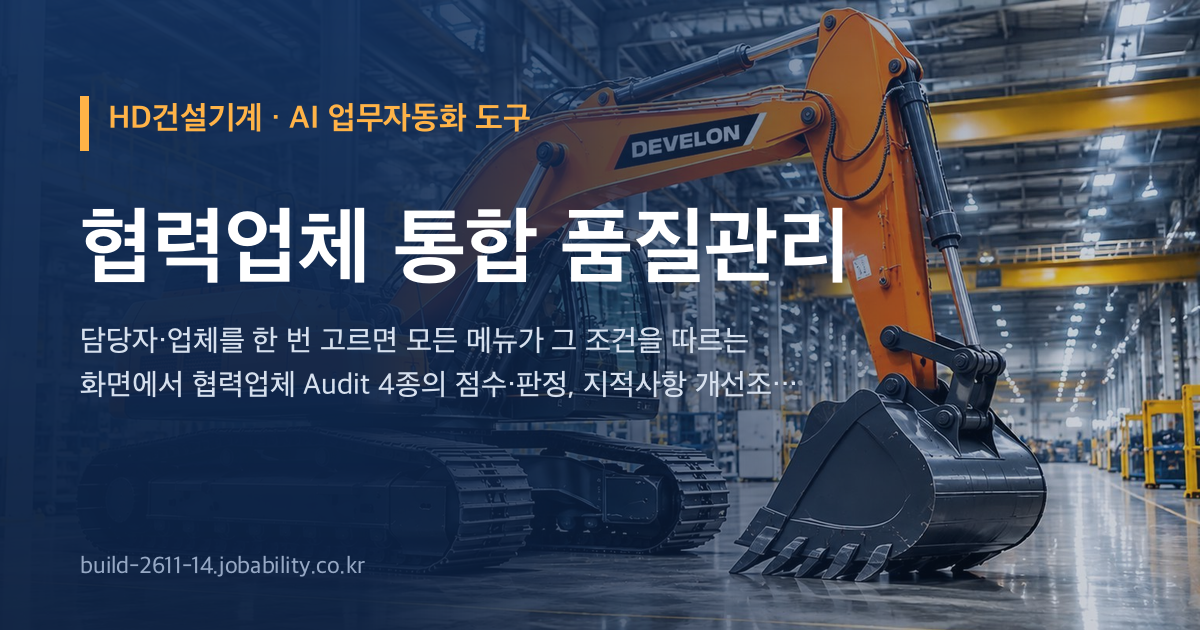
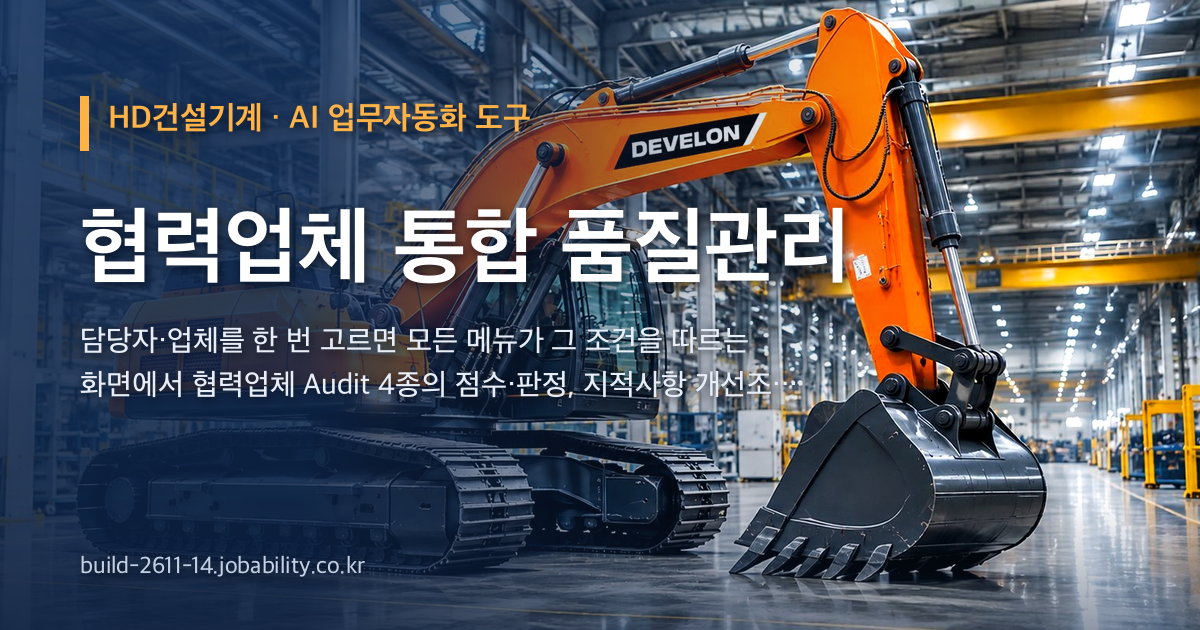
공유 그림 다시(사진 또렷하게) · 판 2026-11-13.12

diff --git a/index.html b/index.html
@@ -12,8 +12,8 @@
 <meta property="og:title" content="HD건설기계 · 협력업체 통합 품질관리">
 <meta property="og:description" content="담당자·업체를 한 번 고르면 모든 메뉴가 그 조건을 따르는 화면에서 협력업체 Audit 4종의 점수·판정, 지적사항 개선조치 추적, 업체별 점수 변화, 가로형 공정점검(사진 첨부), 내부 보고·업체 발송 메일 초안을 관리하는 브라우저 도구입니다.">
 <meta property="og:url" content="https://build-2611-14.jobability.co.kr/">
-<meta property="og:image" content="https://build-2611-14.jobability.co.kr/og-image.png">
-<meta property="og:image:secure_url" content="https://build-2611-14.jobability.co.kr/og-image.png">
+<meta property="og:image" content="https://build-2611-14.jobability.co.kr/og-image.png?v=2">
+<meta property="og:image:secure_url" content="https://build-2611-14.jobability.co.kr/og-image.png?v=2">
 <meta property="og:image:type" content="image/png">
 <meta property="og:image:width" content="1200">
 <meta property="og:image:height" content="630">
@@ -22,7 +22,7 @@
 <meta name="twitter:card" content="summary_large_image">
 <meta name="twitter:title" content="HD건설기계 · 협력업체 통합 품질관리">
 <meta name="twitter:description" content="담당자·업체를 한 번 고르면 모든 메뉴가 그 조건을 따르는 화면에서 협력업체 Audit 4종의 점수·판정, 지적사항 개선조치 추적, 업체별 점수 변화, 가로형 공정점검(사진 첨부), 내부 보고·업체 발송 메일 초안을 관리하는 브라우저 도구입니다.">
-<meta name="twitter:image" content="https://build-2611-14.jobability.co.kr/og-image.png">
+<meta name="twitter:image" content="https://build-2611-14.jobability.co.kr/og-image.png?v=2">
 <!-- /seo-kit -->
 <meta name="description" content="담당자·업체를 한 번 고르면 모든 메뉴가 그 조건을 따르는 화면에서 협력업체 Audit 4종의 점수·판정, 지적사항 개선조치 추적, 업체별 점수 변화, 가로형 공정점검(사진 첨부), 내부 보고·업체 발송 메일 초안을 관리하는 브라우저 도구입니다.">
 <link rel="icon" href="favicon.svg" type="image/svg+xml">
@@ -30,9 +30,9 @@
 <link rel="stylesheet" href="css/app.css">
 <!-- auth-kit: 로그인 전에는 도구 화면을 감춘다(js/auth.js 가 판정 뒤 푼다) -->
 <script>document.documentElement.classList.add('auth-lock')</script>
-<link rel="stylesheet" href="css/auth.css?v=2026-11-13.11">
-<link rel="stylesheet" href="css/board.css?v=2026-11-13.11">
-<link rel="stylesheet" href="css/kit-build.css?v=2026-11-13.11">
+<link rel="stylesheet" href="css/auth.css?v=2026-11-13.12">
+<link rel="stylesheet" href="css/board.css?v=2026-11-13.12">
+<link rel="stylesheet" href="css/kit-build.css?v=2026-11-13.12">
 <!-- /auth-kit -->
 </head>
 <body>
@@ -98,11 +98,11 @@
 <script src="js/audit.js"></script>
 <script src="js/app.js"></script>
 <!-- auth-kit: 로그인 · 사용 신청 · 승인 · 게시판(키트 정본 data10-00/kit/auth, 적용 build-2611-00/tools/kit) -->
-<script src="vendor/supabase.js?v=2026-11-13.11"></script>
-<script src="js/auth-config.js?v=2026-11-13.11"></script>
-<script src="js/kit-build.js?v=2026-11-13.11"></script>
-<script src="js/board.js?v=2026-11-13.11"></script>
-<script src="js/auth.js?v=2026-11-13.11"></script>
+<script src="vendor/supabase.js?v=2026-11-13.12"></script>
+<script src="js/auth-config.js?v=2026-11-13.12"></script>
+<script src="js/kit-build.js?v=2026-11-13.12"></script>
+<script src="js/board.js?v=2026-11-13.12"></script>
+<script src="js/auth.js?v=2026-11-13.12"></script>
 <!-- /auth-kit -->
 </body>
 </html>

diff --git a/guide.html b/guide.html
@@ -12,8 +12,8 @@
 <meta property="og:title" content="사용법 — 협력업체 통합 품질관리">
 <meta property="og:description" content="담당자·업체를 한 번 고르면 모든 메뉴가 그 조건을 따르는 화면에서 협력업체 Audit 4종의 점수·판정, 지적사항 개선조치 추적, 업체별 점수 변화, 가로형 공정점검(사진 첨부), 내부 보고·업체 발송 메일 초안을 관리하는 브라우저 도구입니다.">
 <meta property="og:url" content="https://build-2611-14.jobability.co.kr/guide.html">
-<meta property="og:image" content="https://build-2611-14.jobability.co.kr/og-image.png">
-<meta property="og:image:secure_url" content="https://build-2611-14.jobability.co.kr/og-image.png">
+<meta property="og:image" content="https://build-2611-14.jobability.co.kr/og-image.png?v=2">
+<meta property="og:image:secure_url" content="https://build-2611-14.jobability.co.kr/og-image.png?v=2">
 <meta property="og:image:type" content="image/png">
 <meta property="og:image:width" content="1200">
 <meta property="og:image:height" content="630">
@@ -22,7 +22,7 @@
 <meta name="twitter:card" content="summary_large_image">
 <meta name="twitter:title" content="사용법 — 협력업체 통합 품질관리">
 <meta name="twitter:description" content="담당자·업체를 한 번 고르면 모든 메뉴가 그 조건을 따르는 화면에서 협력업체 Audit 4종의 점수·판정, 지적사항 개선조치 추적, 업체별 점수 변화, 가로형 공정점검(사진 첨부), 내부 보고·업체 발송 메일 초안을 관리하는 브라우저 도구입니다.">
-<meta name="twitter:image" content="https://build-2611-14.jobability.co.kr/og-image.png">
+<meta name="twitter:image" content="https://build-2611-14.jobability.co.kr/og-image.png?v=2">
 <!-- /seo-kit -->
 <link rel="icon" href="favicon.svg" type="image/svg+xml">
 <link rel="stylesheet" href="css/style.css">

diff --git a/plan.html b/plan.html
@@ -12,8 +12,8 @@
 <meta property="og:title" content="기획서 — 협력업체 통합 품질관리">
 <meta property="og:description" content="담당자·업체를 한 번 고르면 모든 메뉴가 그 조건을 따르는 화면에서 협력업체 Audit 4종의 점수·판정, 지적사항 개선조치 추적, 업체별 점수 변화, 가로형 공정점검(사진 첨부), 내부 보고·업체 발송 메일 초안을 관리하는 브라우저 도구입니다.">
 <meta property="og:url" content="https://build-2611-14.jobability.co.kr/plan.html">
-<meta property="og:image" content="https://build-2611-14.jobability.co.kr/og-image.png">
-<meta property="og:image:secure_url" content="https://build-2611-14.jobability.co.kr/og-image.png">
+<meta property="og:image" content="https://build-2611-14.jobability.co.kr/og-image.png?v=2">
+<meta property="og:image:secure_url" content="https://build-2611-14.jobability.co.kr/og-image.png?v=2">
 <meta property="og:image:type" content="image/png">
 <meta property="og:image:width" content="1200">
 <meta property="og:image:height" content="630">
@@ -22,7 +22,7 @@
 <meta name="twitter:card" content="summary_large_image">
 <meta name="twitter:title" content="기획서 — 협력업체 통합 품질관리">
 <meta name="twitter:description" content="담당자·업체를 한 번 고르면 모든 메뉴가 그 조건을 따르는 화면에서 협력업체 Audit 4종의 점수·판정, 지적사항 개선조치 추적, 업체별 점수 변화, 가로형 공정점검(사진 첨부), 내부 보고·업체 발송 메일 초안을 관리하는 브라우저 도구입니다.">
-<meta name="twitter:image" content="https://build-2611-14.jobability.co.kr/og-image.png">
+<meta name="twitter:image" content="https://build-2611-14.jobability.co.kr/og-image.png?v=2">
 <!-- /seo-kit -->
 <link rel="icon" href="favicon.svg" type="image/svg+xml">
 <link rel="stylesheet" href="css/style.css">

diff --git a/report.html b/report.html
@@ -12,8 +12,8 @@
 <meta property="og:title" content="평가보고서 — 협력업체 통합 품질관리">
 <meta property="og:description" content="협력업체 통합 품질관리 점검 · 평가보고서(2026-11-13) — 사이트 점검, 기능과 시험, 인계 준비, 판 이력, 한계.">
 <meta property="og:url" content="https://build-2611-14.jobability.co.kr/report.html">
-<meta property="og:image" content="https://build-2611-14.jobability.co.kr/og-image.png">
-<meta property="og:image:secure_url" content="https://build-2611-14.jobability.co.kr/og-image.png">
+<meta property="og:image" content="https://build-2611-14.jobability.co.kr/og-image.png?v=2">
+<meta property="og:image:secure_url" content="https://build-2611-14.jobability.co.kr/og-image.png?v=2">
 <meta property="og:image:type" content="image/png">
 <meta property="og:image:width" content="1200">
 <meta property="og:image:height" content="630">
@@ -22,7 +22,7 @@
 <meta name="twitter:card" content="summary_large_image">
 <meta name="twitter:title" content="평가보고서 — 협력업체 통합 품질관리">
 <meta name="twitter:description" content="협력업체 통합 품질관리 점검 · 평가보고서(2026-11-13) — 사이트 점검, 기능과 시험, 인계 준비, 판 이력, 한계.">
-<meta name="twitter:image" content="https://build-2611-14.jobability.co.kr/og-image.png">
+<meta name="twitter:image" content="https://build-2611-14.jobability.co.kr/og-image.png?v=2">
 <!-- /seo-kit -->
 <meta name="description" content="협력업체 통합 품질관리 점검 · 평가보고서(2026-11-13) — 사이트 점검, 기능과 시험, 인계 준비, 판 이력, 한계.">
 <link rel="icon" href="favicon.svg" type="image/svg+xml">
